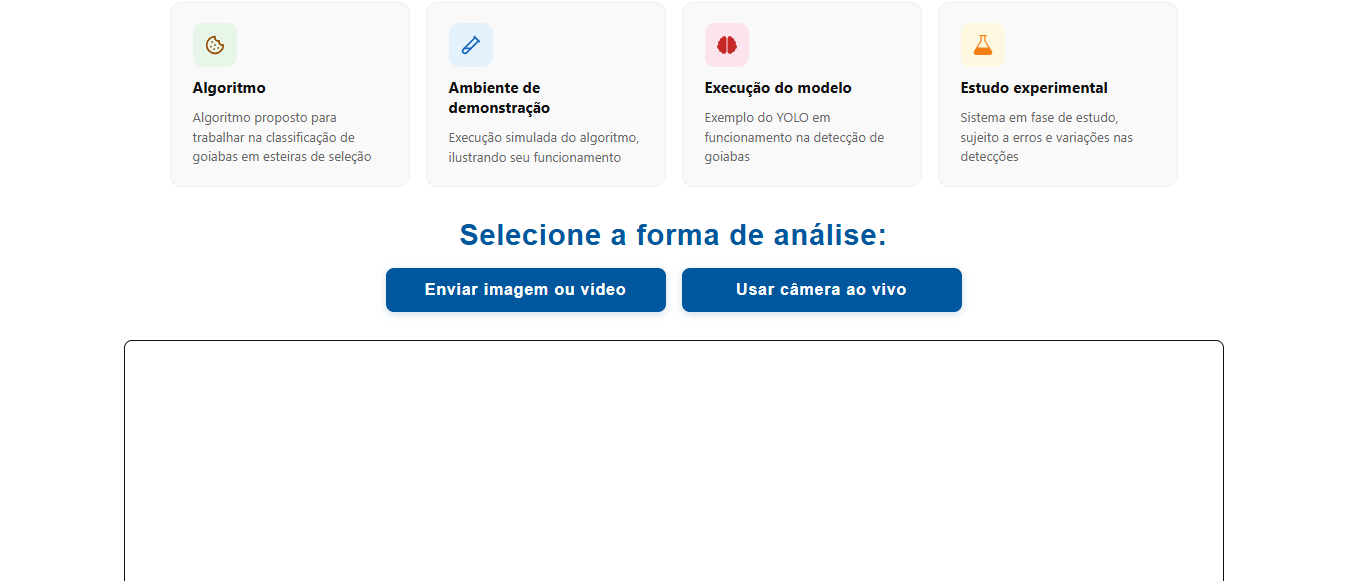
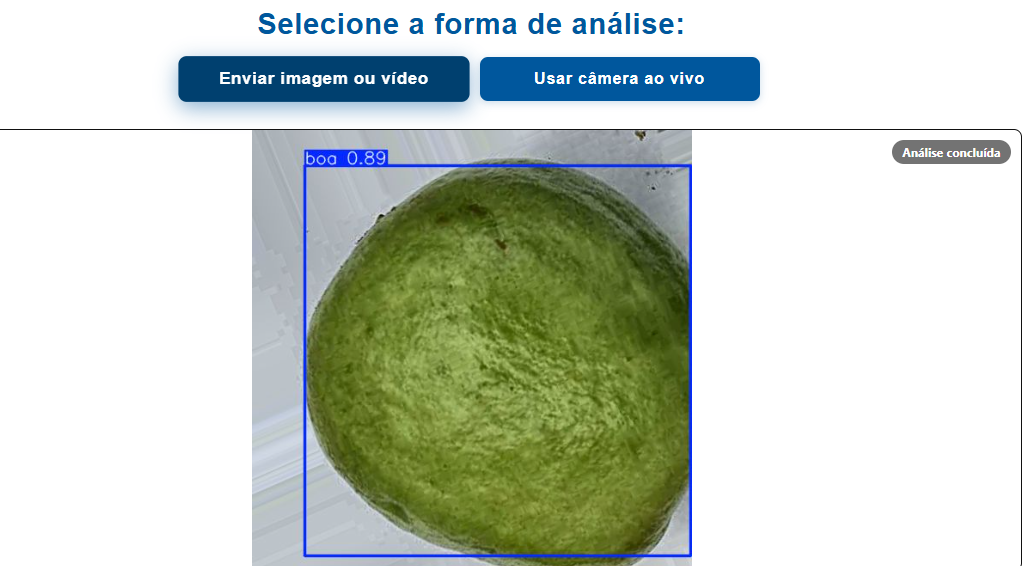
versão 2

diff --git a/backend/main.py b/backend/main.py
@@ -8,7 +8,7 @@ from fastapi.middleware.cors import CORSMiddleware
 from fastapi.responses import JSONResponse
 from ultralytics import YOLO
 
-MODEL_PATH = r"C:\guava_yolo\runs\detect\train6\weights\best.pt"
+MODEL_PATH = os.path.join(os.path.dirname(__file__), "best.pt")
 model = YOLO(MODEL_PATH)
 
 app = FastAPI(title="GuavaVision API")